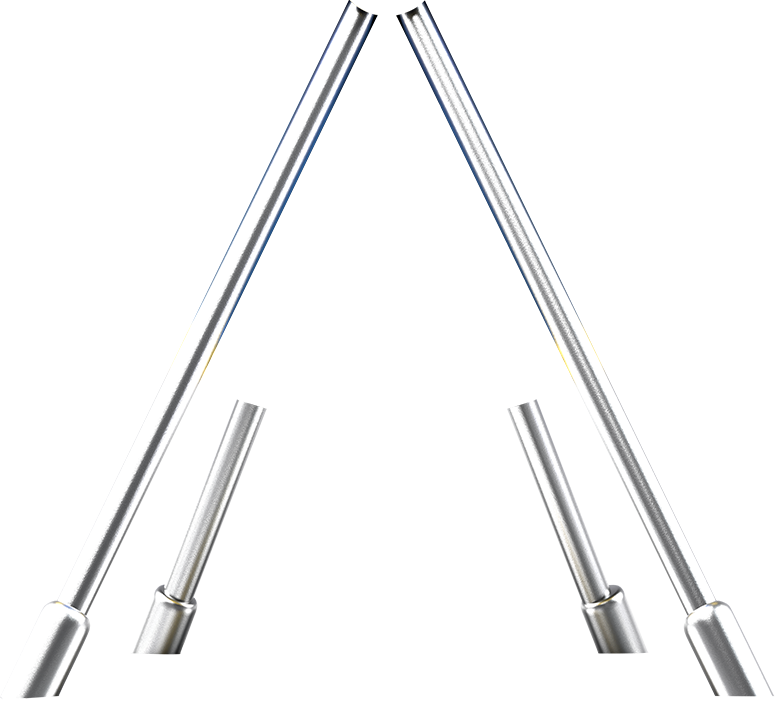
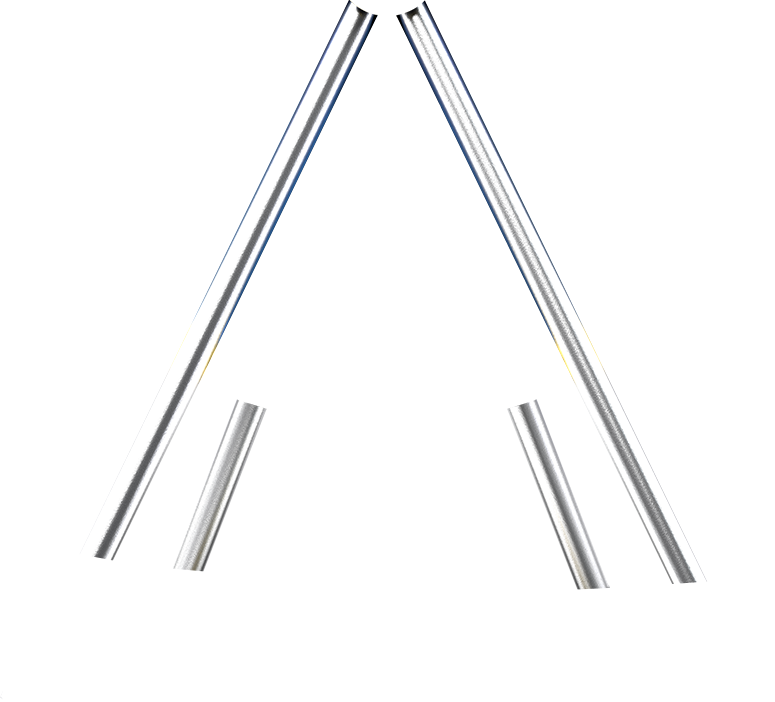
update hiệu ứng trang chủ

diff --git a/css/hieu-ung.css b/css/hieu-ung.css
@@ -26,7 +26,7 @@
   position: absolute;
   width: 34%;
   left: 23%;
-  top: 8%;
+  top: 9%;
   animation: vong-quay-hl linear infinite 20s;
   animation-delay: 0s;
 }
@@ -34,14 +34,14 @@
   position: absolute;
   left: 25%;
   width: 30%;
-  top: 19%;
+  top: 19.9%;
   z-index: 3;
 }
 .light-hlc9{
   position: absolute;
   width: 17%;
   left: 31.8%;
-  top: 13.5%;
+  top: 14%;
   z-index: 5;
 }
 .light-3l29{
